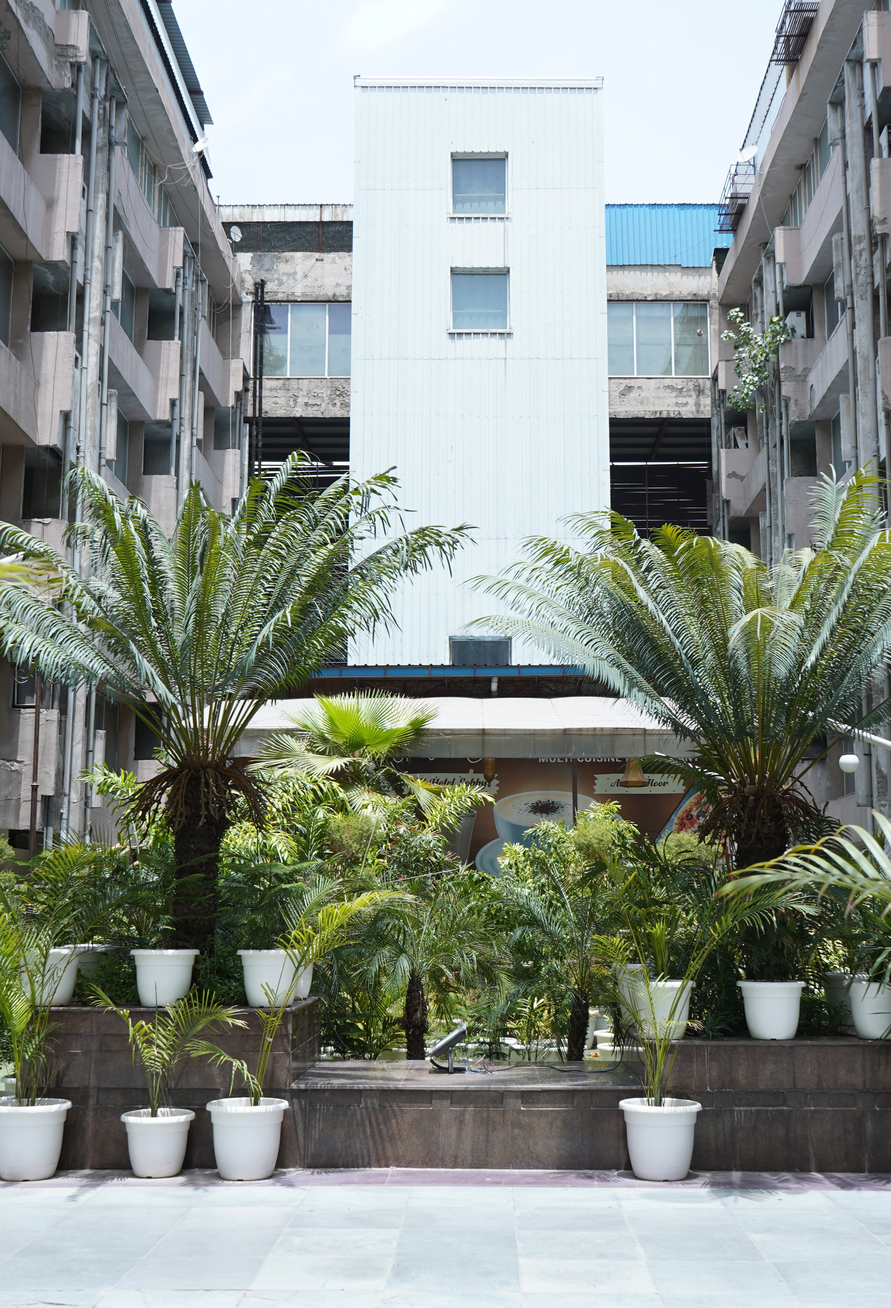
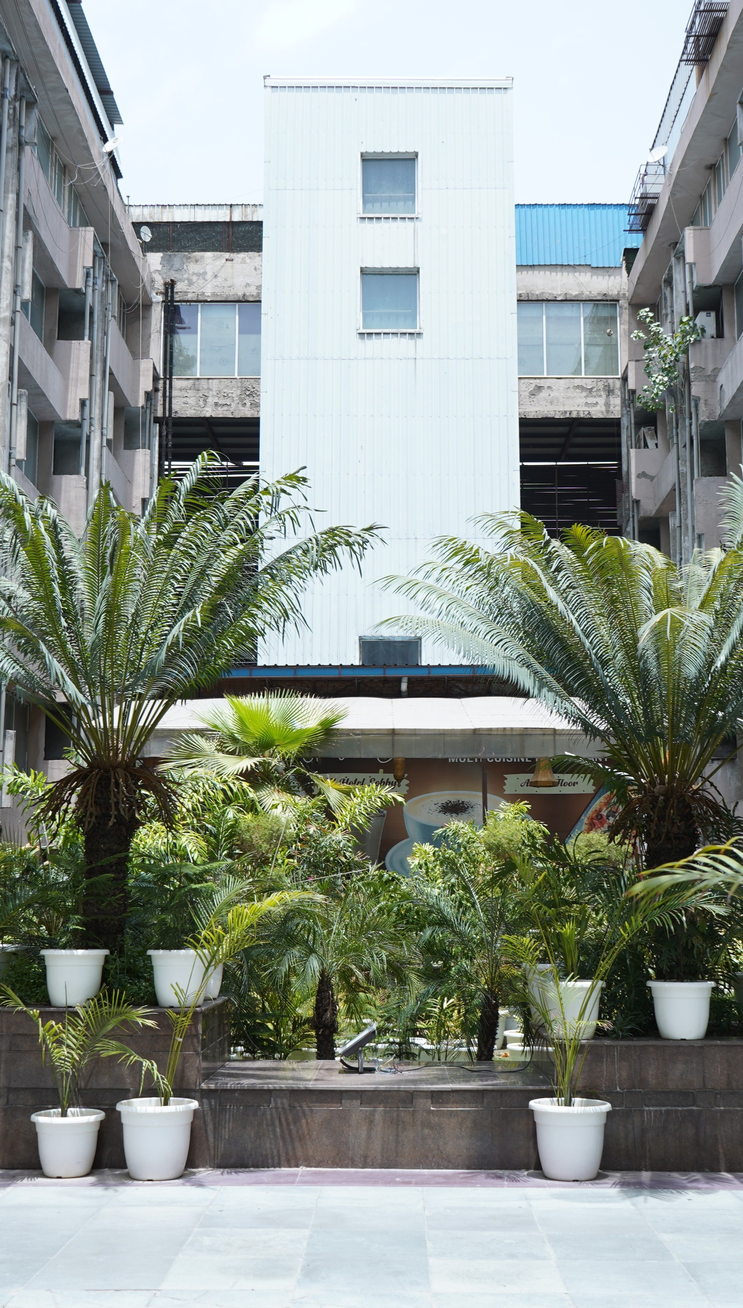
home page imges

diff --git a/index.html b/index.html
@@ -702,7 +702,7 @@
                     <div class="project-block-one wow fadeInUp" data-wow-delay="00ms" data-wow-duration="1500ms">
                         <div class="inner-box">
                             <div class="image-box">
-                                <figure class="image"><img src="/images/resource/abou-1.jpg" alt=""></figure>
+                                <figure class="image"><img src="/images/resource/ADM08412.JPG" alt=""></figure>
                                 <a href="/images/resource/abou-3.jpg" class="lightbox-image" data-fancybox='gallery'><i
                                         class="flaticon-add"></i></a>
                             </div>
@@ -719,7 +719,7 @@
                     <div class="project-block-one wow fadeInUp" data-wow-delay="200ms" data-wow-duration="1500ms">
                         <div class="inner-box">
                             <div class="image-box">
-                                <figure class="image"><img src="/images/resource/abou-3.jpg" alt=""></figure>
+                                <figure class="image"><img src="/images/resource/ADM08408.JPG" alt=""></figure>
                                 <a href="/images/resource/abou-3.jpg" class="lightbox-image" data-fancybox='gallery'><i
                                         class="flaticon-add"></i></a>
                             </div>
@@ -736,7 +736,7 @@
                     <div class="project-block-one wow fadeInUp" data-wow-delay="400ms" data-wow-duration="1500ms">
                         <div class="inner-box">
                             <div class="image-box">
-                                <figure class="image"><img src="/images/gallery/project-3.jpg" alt=""></figure>
+                                <figure class="image"><img src="/images/resource/ADM08450.JPG" alt=""></figure>
                                 <a href="/images/resource/abou-3.jpg" class="lightbox-image" data-fancybox='gallery'><i
                                         class="flaticon-add"></i></a>
                             </div>
@@ -753,7 +753,7 @@
                     <div class="project-block-one wow fadeInUp" data-wow-delay="600ms" data-wow-duration="1500ms">
                         <div class="inner-box">
                             <div class="image-box">
-                                <figure class="image"><img src="/images/resource/abou-3.jpg" alt=""></figure>
+                                <figure class="image"><img src="/images/resource/ADM08476.JPG" alt=""></figure>
                                 <a href="/images/resource/abou-3.jpg" class="lightbox-image" data-fancybox='gallery'><i
                                         class="flaticon-add"></i></a>
                             </div>
